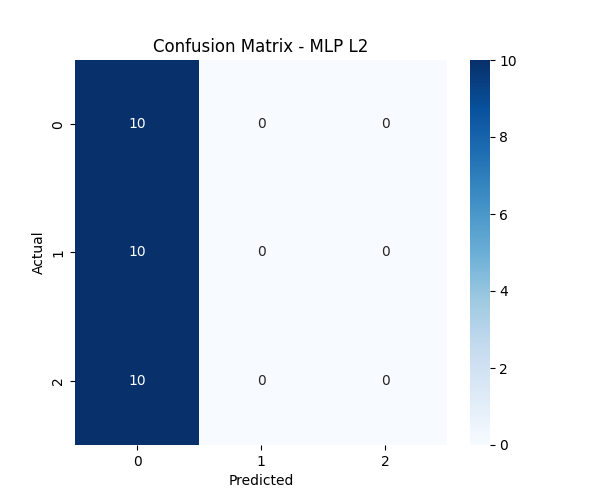
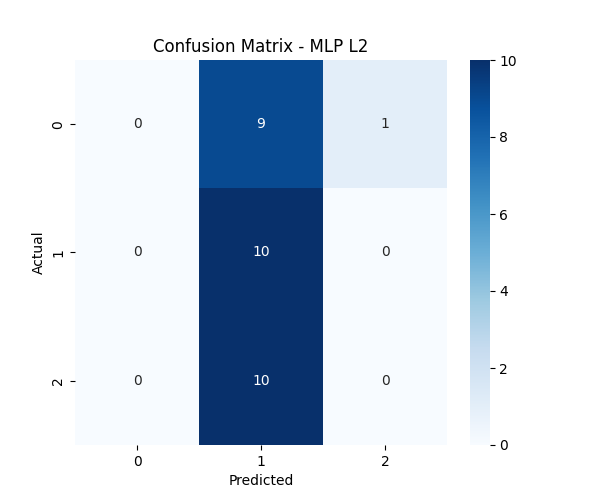
-Adding a collection iris from sklearn

diff --git a/src/data/dataset.py b/src/data/dataset.py
@@ -1,76 +1,96 @@
 import pandas as pd
 import numpy as np
 import os
-
-def load_data(file_path):
-    """Loads data from a CSV file and returns X (features) and y (one-hot encoded labels)."""
-    try:
-        df = pd.read_csv(file_path)
-    except FileNotFoundError:
-        raise FileNotFoundError(f"File not found: {file_path}")
-    except Exception as e:
-        raise Exception(f"Error while loading the file: {e}")
-    
-    X = df.drop(columns=['Id', 'Species'])
-    y = one_hot_encoder(df['Species'])
-    return X, y
-
-def one_hot_encoder(labels):
-    """Converts labels to one-hot encoding."""
-    unique_labels = np.unique(labels)
-    label_to_index = {label: index for index, label in enumerate(unique_labels)}
-    label_indices = np.array([label_to_index[label] for label in labels])
-    return np.eye(len(unique_labels))[label_indices]
-
-def split_dataset(X, y, test_size=0.2, stratify=False):
-    """Splits dataset into train and test sets, ensuring balanced class distribution if stratify=True."""
-    if stratify:
-        class_labels = np.argmax(y, axis=1)
+def load_dataset():
+    """Loads the Iris dataset from a CSV file and preprocesses it."""
+    def load_data(file_path):
+        """Loads data from a CSV file and returns X (features) and y (one-hot encoded labels)."""
+        try:
+            df = pd.read_csv(file_path)
+        except FileNotFoundError:
+            raise FileNotFoundError(f"File not found: {file_path}")
+        except Exception as e:
+            raise Exception(f"Error while loading the file: {e}")
         
-        classes, class_counts = np.unique(class_labels, return_counts=True)
-        train_indices, test_indices = [], []        
-        
-        for i, class_ in enumerate(classes):        
-            class_indices = np.where(class_labels == class_)[0]
-            np.random.shuffle(class_indices)
+        X = df.drop(columns=['Id', 'Species'])
+        y = one_hot_encoder(df['Species'])
+        return X, y
 
-            num_test_samples = int(class_counts[i] * test_size)
-                        
-            test_class_indices = class_indices[:num_test_samples]
-            train_class_indices = class_indices[num_test_samples:]
+    def one_hot_encoder(labels):
+        """Converts labels to one-hot encoding."""
+        unique_labels = np.unique(labels)
+        label_to_index = {label: index for index, label in enumerate(unique_labels)}
+        label_indices = np.array([label_to_index[label] for label in labels])
+        return np.eye(len(unique_labels))[label_indices]
+
+    def split_dataset(X, y, test_size=0.2, stratify=False):
+        """Splits dataset into train and test sets, ensuring balanced class distribution if stratify=True."""
+        if stratify:
+            class_labels = np.argmax(y, axis=1)
             
-            test_indices.extend(test_class_indices)
-            train_indices.extend(train_class_indices)
-        
-        train_indices = np.array(train_indices)
-        test_indices = np.array(test_indices)
-    
-    else:        
-        num_samples = len(y)
-        indices = np.arange(num_samples)
-        np.random.shuffle(indices)
-        
-        split_idx = int(num_samples * (1 - test_size))
-        train_indices, test_indices = indices[:split_idx], indices[split_idx:]
-    
-    # Tworzymy zbiory X_train, X_test, y_train, y_test
-    X_train, X_test = X.iloc[train_indices].values, X.iloc[test_indices].values
-    y_train, y_test = y[train_indices], y[test_indices]
-    
-    return X_train, X_test, y_train, y_test
+            classes, class_counts = np.unique(class_labels, return_counts=True)
+            train_indices, test_indices = [], []        
+            
+            for i, class_ in enumerate(classes):        
+                class_indices = np.where(class_labels == class_)[0]
+                np.random.shuffle(class_indices)
 
-def data_normalization(X):
-    """Normalizes the dataset using Min-Max scaling."""
-    return (X - X.min()) / (X.max() - X.min())
+                num_test_samples = int(class_counts[i] * test_size)
+                            
+                test_class_indices = class_indices[:num_test_samples]
+                train_class_indices = class_indices[num_test_samples:]
+                
+                test_indices.extend(test_class_indices)
+                train_indices.extend(train_class_indices)
+            
+            train_indices = np.array(train_indices)
+            test_indices = np.array(test_indices)
+        
+        else:        
+            num_samples = len(y)
+            indices = np.arange(num_samples)
+            np.random.shuffle(indices)
+            
+            split_idx = int(num_samples * (1 - test_size))
+            train_indices, test_indices = indices[:split_idx], indices[split_idx:]
+        
+        # Tworzymy zbiory X_train, X_test, y_train, y_test
+        X_train, X_test = X.iloc[train_indices].values, X.iloc[test_indices].values
+        y_train, y_test = y[train_indices], y[test_indices]
+        
+        return X_train, X_test, y_train, y_test
 
-def load_and_preprocess_data(file_path, test_size=0.2):
-    """Loads and preprocesses data, returning train and test sets."""
+    def data_normalization(X):
+        """Normalizes the dataset using Min-Max scaling."""
+        return (X - X.min()) / (X.max() - X.min())
+
+    def load_and_preprocess_data(file_path, test_size=0.2):
+        """Loads and preprocesses data, returning train and test sets."""
+        X, y = load_data(file_path)
+        X = data_normalization(X)
+        return split_dataset(X, y, test_size)
+
+    file_path = os.path.join('data', 'raw', 'Iris.csv')
     X, y = load_data(file_path)
-    X = data_normalization(X)
-    return split_dataset(X, y, test_size)
+    X_normalize = data_normalization(X)
 
-file_path = os.path.join('data', 'raw', 'Iris.csv')
-X, y = load_data(file_path)
-X_normalize = data_normalization(X)
+    X_train, X_test, y_train, y_test = split_dataset(X_normalize, y, test_size=0.2, stratify=True)
+    return X_train, X_test, y_train, y_test, X, y
 
-X_train, X_test, y_train, y_test = split_dataset(X_normalize, y, test_size=0.2, stratify=True)
+from sklearn.datasets import load_iris
+from sklearn.model_selection import train_test_split
+from sklearn.preprocessing import LabelEncoder
+
+def load_keras_iris_dataset():
+    iris = load_iris()
+
+    X = iris.data
+    y = iris.target
+
+    encoder = LabelEncoder()
+    y_encoded = encoder.fit_transform(y)
+    y_one_hot = np.eye(len(np.unique(y)))[y_encoded]
+
+    X_train, X_test, y_train, y_test = train_test_split(X, y_one_hot, test_size=0.2, stratify=y_one_hot)
+
+    return X_train, X_test, y_train, y_test, X, y_one_hot

diff --git a/src/main.py b/src/main.py
@@ -1,7 +1,7 @@
 import sys
 import os
 sys.path.append(os.path.abspath(os.path.join(os.path.dirname(__file__), '..')))
-from src.data.dataset import X_train, y_train, X_test, y_test, X, y
+from src.data.dataset import load_dataset, load_keras_iris_dataset
 
 from src.models.MLP_base import train as train_MLP_base
 from src.models.MLP_L2 import train as train_MLP_L2
@@ -17,6 +17,7 @@ from src.visualization.explore_data import analyze_data
 from src.visualization.analyze_training_results import analyze_training_results
 import numpy as np
 def main():
+    X_train, X_test, y_train, y_test, X, y = load_keras_iris_dataset()
     #analyze_data(X, y)
     results = {}
 

diff --git a/src/models/MLP_ADAM_batch_HE_init.py b/src/models/MLP_ADAM_batch_HE_init.py
@@ -89,6 +89,7 @@ def train(X_train, y_train, X_test, y_test, epochs=230, learning_rate=0.01, batc
                 m_hat = m / (1 - beta1 ** (epoch + 1))
                 v_hat = v / (1 - beta2 ** (epoch + 1))
                 param -= learning_rate * m_hat / (np.sqrt(v_hat) + epsilon)
+            epoch_loss += loss
 
         # Compute training accuracy at the end of the epoch
         Z1_train = np.dot(X_train, W1) + b1

diff --git a/src/models/MLP_ADAM_batch_HE_lrScheduler.py b/src/models/MLP_ADAM_batch_HE_lrScheduler.py
@@ -1,6 +1,6 @@
 import numpy as np
 
-def train(X_train, y_train, X_test, y_test, epochs=230, learning_rate=0.01, batch_size=32, lr_scheduler=True, step_size=10, gamma=0.98):
+def train(X_train, y_train, X_test, y_test, epochs=230, learning_rate=0.01, batch_size=32, lr_scheduler=True, step_size=10, gamma=0.95):
     def relu(x):
         return np.maximum(0, x)
 
